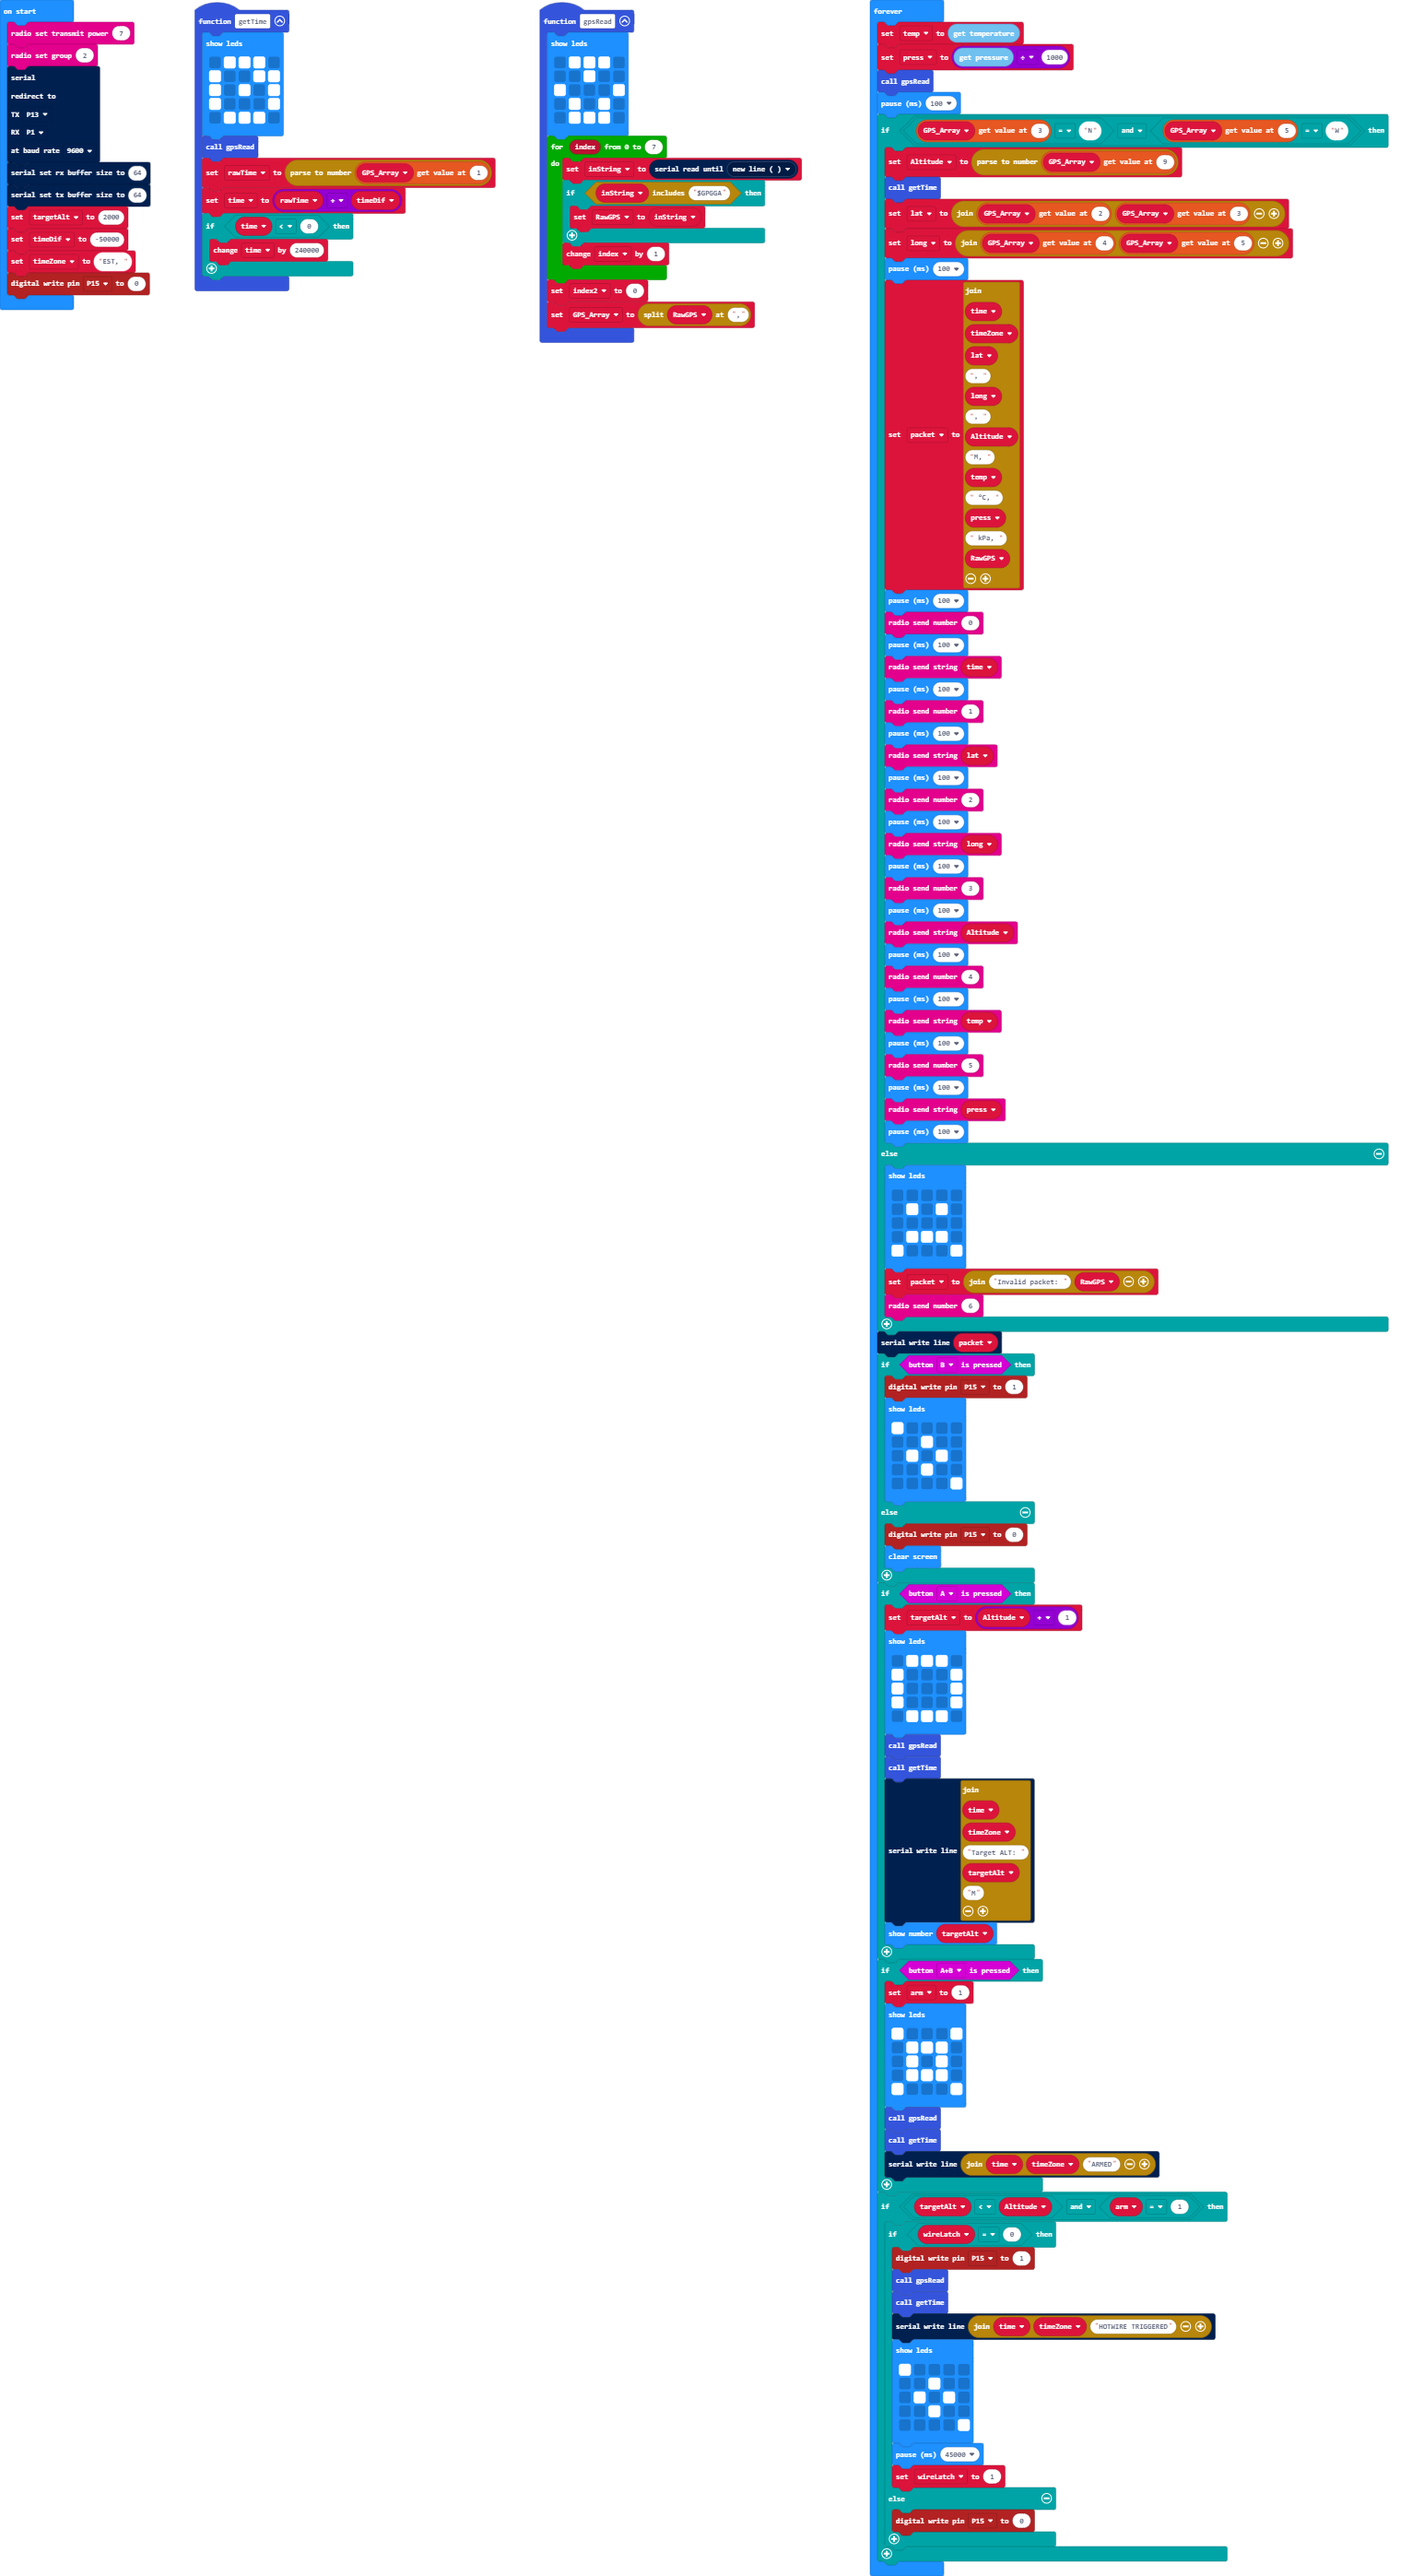
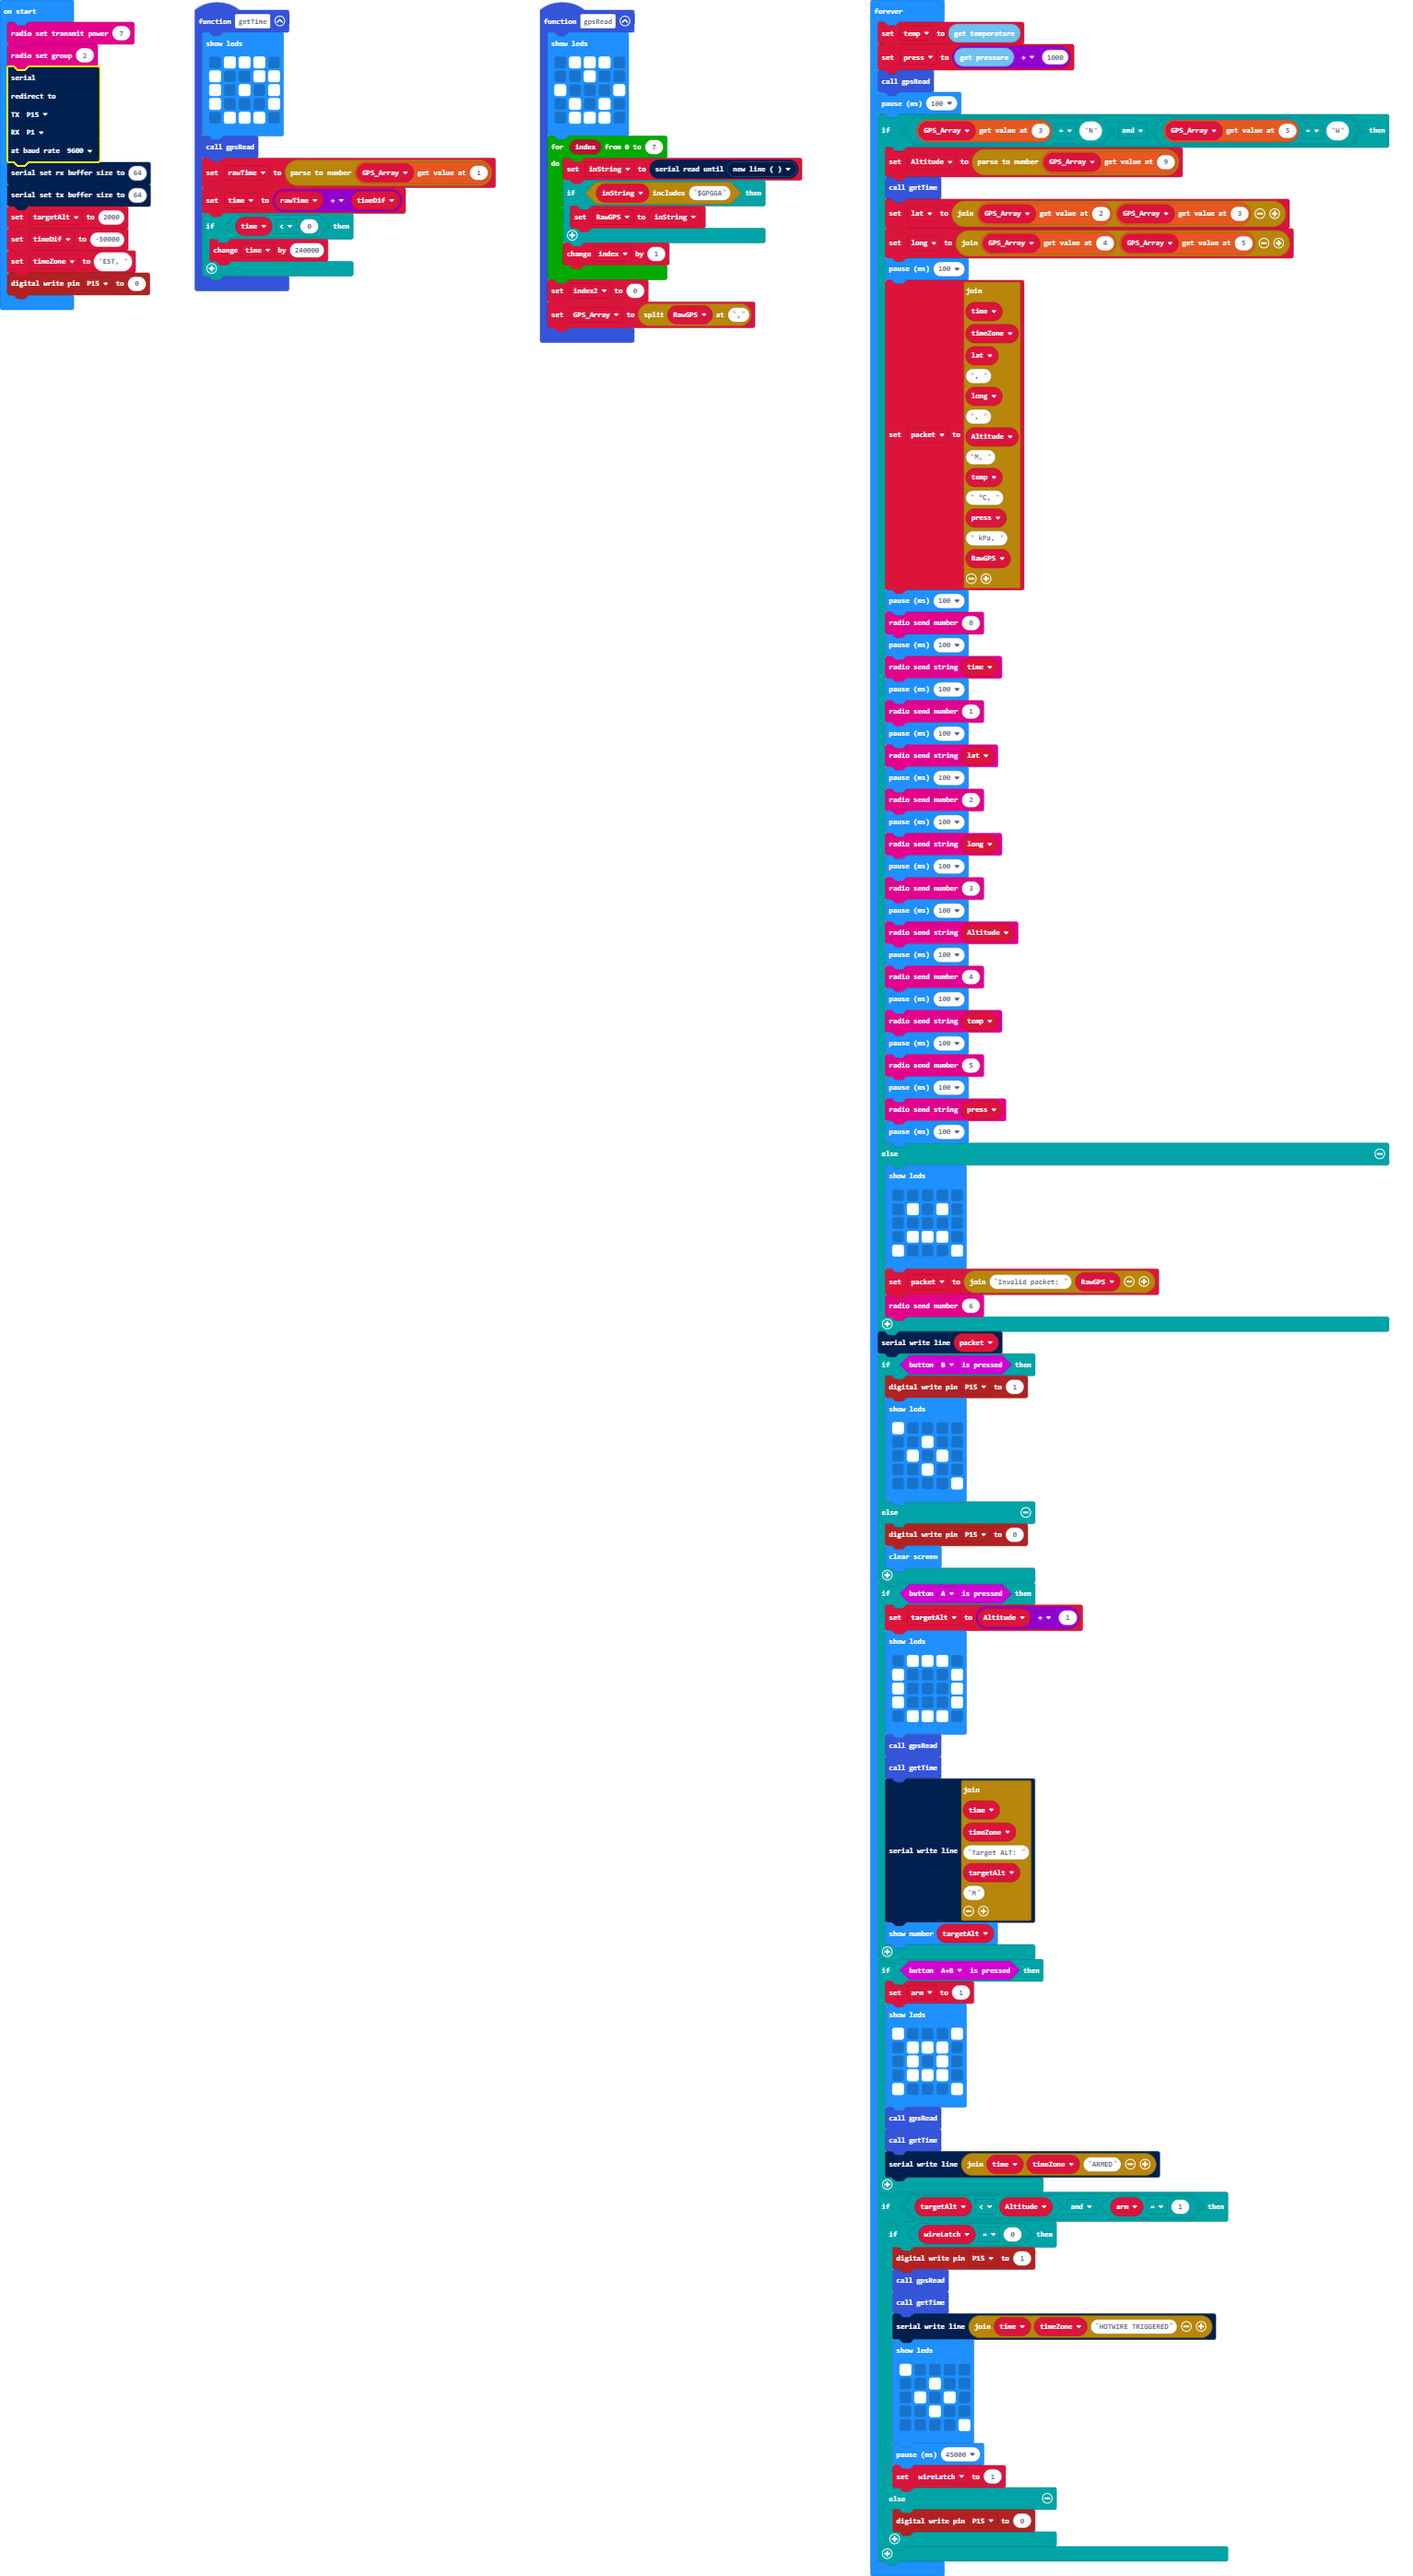
Updated TX to match PCB

Changed region(s): [[0.6136, 0.4982, 0.6443, 0.5293]]

diff --git a/main.ts b/main.ts
@@ -49,7 +49,7 @@ let timeDif = 0
 radio.setTransmitPower(7)
 radio.setGroup(2)
 serial.redirect(
-SerialPin.P13,
+SerialPin.P15,
 SerialPin.P1,
 BaudRate.BaudRate9600
 )
